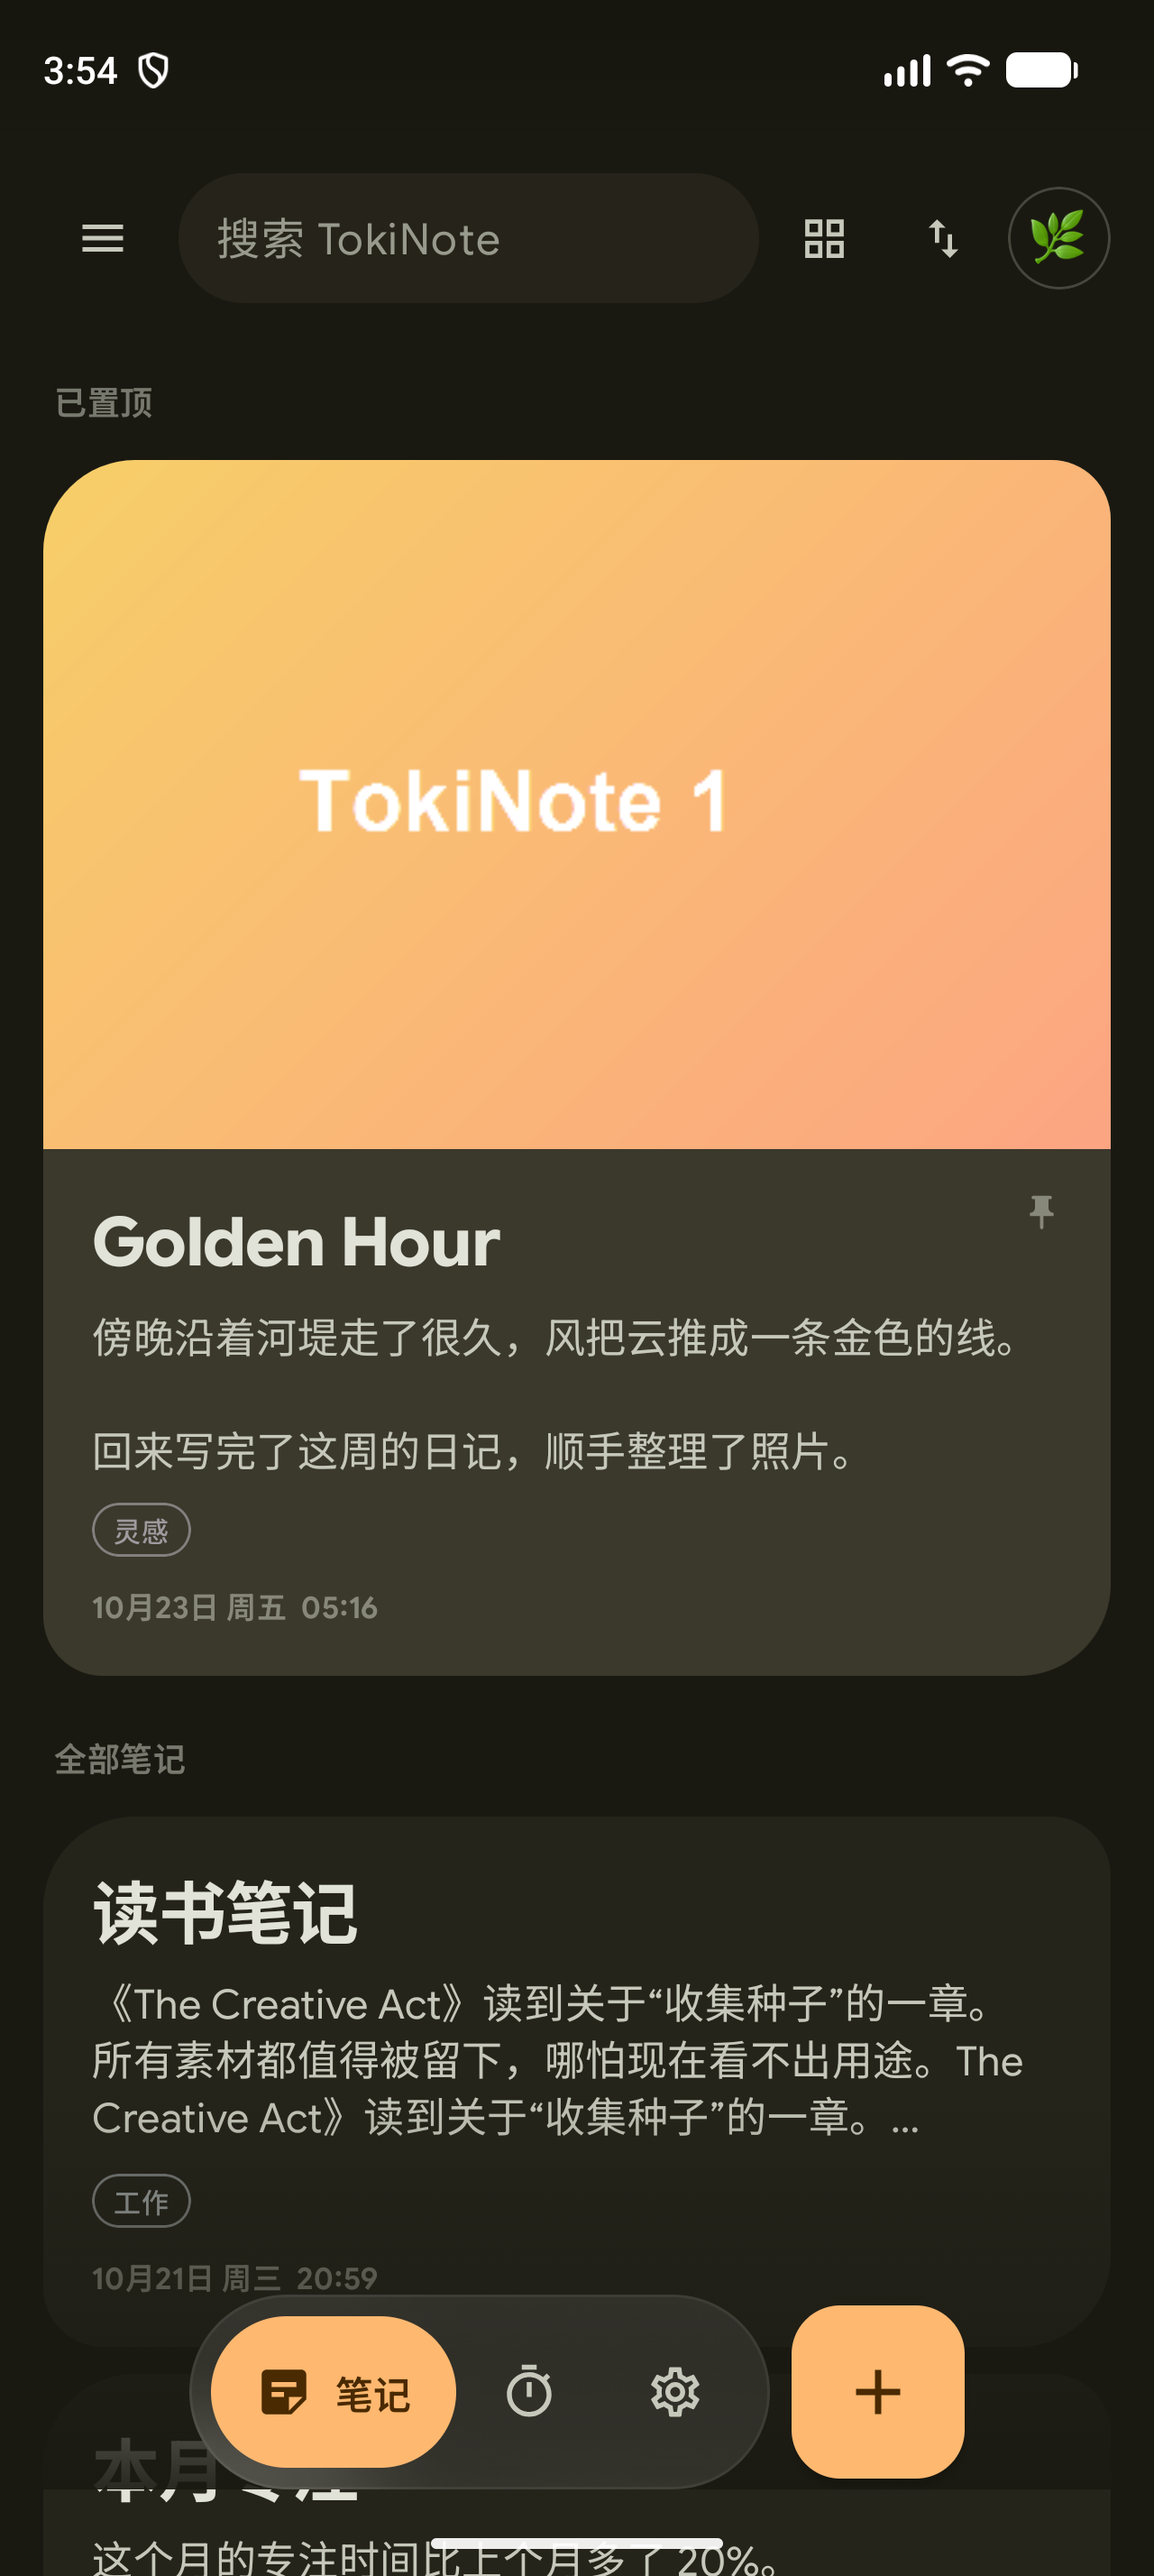
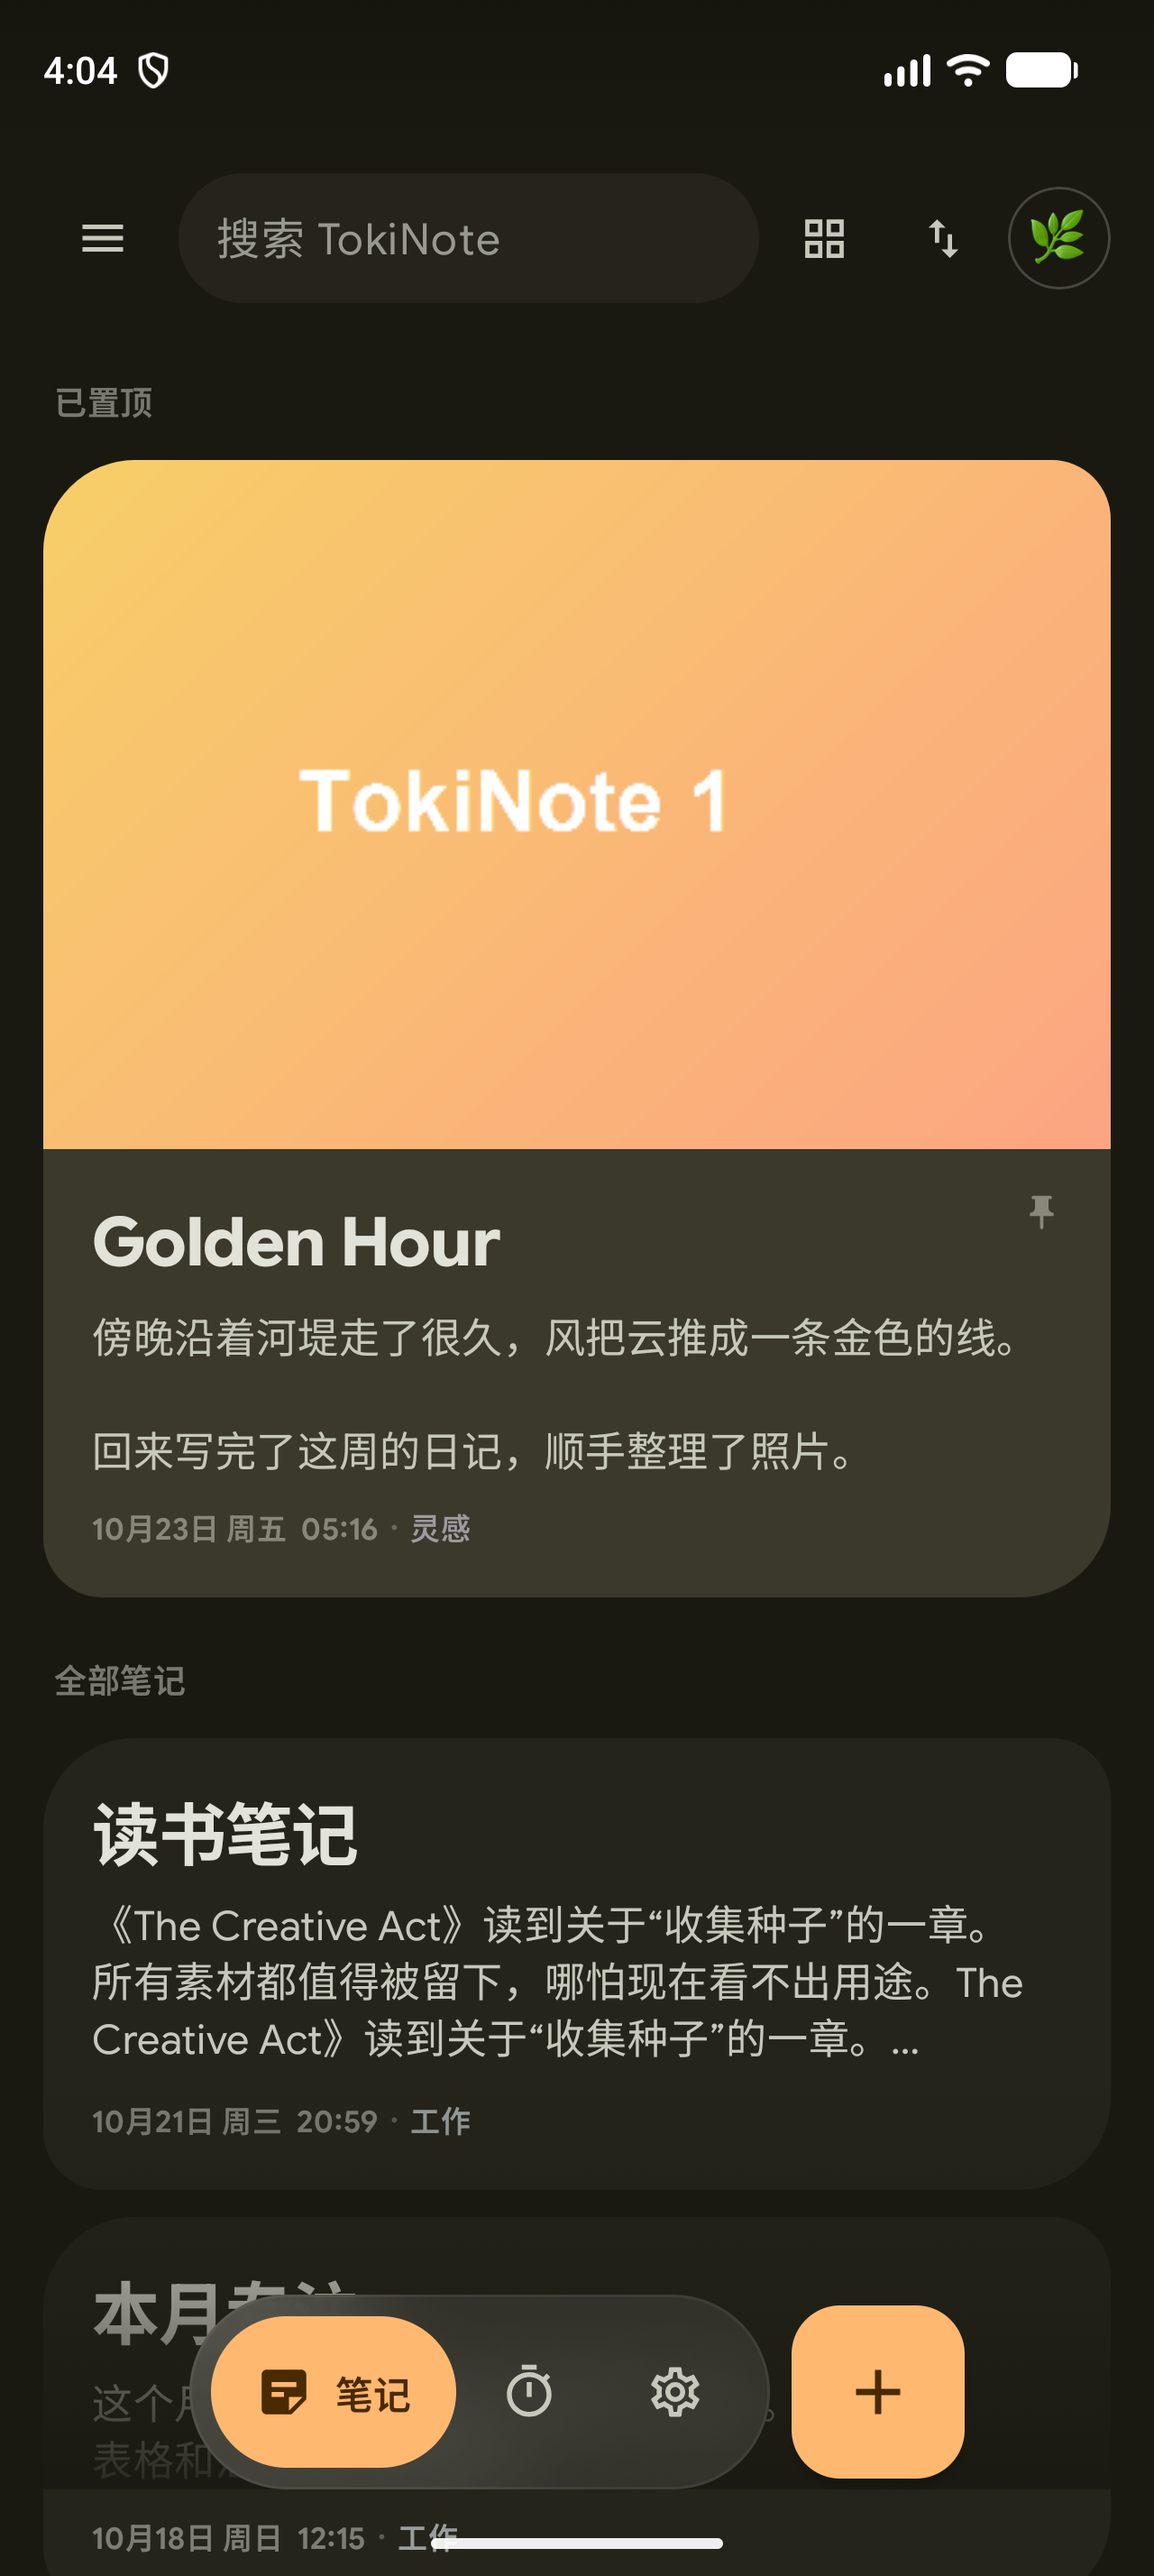
style: inline note labels after timestamp

Changed region(s): [[0.0312, 0.5609, 0.9688, 1.0]]

diff --git a/app/src/main/java/com/tokinote/app/ui/notes/NoteCard.kt b/app/src/main/java/com/tokinote/app/ui/notes/NoteCard.kt
@@ -17,8 +17,6 @@ import androidx.compose.foundation.layout.padding
 import androidx.compose.foundation.layout.size
 import androidx.compose.foundation.layout.width
 import androidx.compose.foundation.layout.widthIn
-import androidx.compose.foundation.shape.CircleShape
-import androidx.compose.foundation.shape.RoundedCornerShape
 import androidx.compose.material.icons.Icons
 import androidx.compose.material.icons.filled.PushPin
 import androidx.compose.material3.Icon
@@ -162,45 +160,45 @@ fun NoteCard(
                     )
                 }
 
-                if (noteLabels.isNotEmpty()) {
-                    Spacer(Modifier.height(9.dp))
-                    Row(horizontalArrangement = Arrangement.spacedBy(4.dp)) {
-                        noteLabels.take(3).forEach { label ->
-                            val ink = labelInk(label.colorIndex)
-                            Text(
-                                text = label.name,
-                                style = MaterialTheme.typography.labelSmall.copy(
-                                    fontSize = 10.sp,
-                                    letterSpacing = 0.2.sp,
-                                ),
-                                color = ink,
-                                maxLines = 1,
-                                overflow = TextOverflow.Ellipsis,
-                                modifier = Modifier
-                                    .widthIn(max = if (compact) 62.dp else 76.dp)
-                                    .clip(CircleShape)
-                                    .border(1.dp, ink.copy(alpha = 0.72f), CircleShape)
-                                    .padding(horizontal = 8.dp, vertical = 2.dp),
-                            )
-                        }
+                Spacer(Modifier.height(10.dp))
+                Row(
+                    verticalAlignment = Alignment.CenterVertically,
+                    horizontalArrangement = Arrangement.spacedBy(4.dp),
+                ) {
+                    Text(
+                        text = buildString {
+                            append(note.journalDate.dayLabel())
+                            if (showTime) {
+                                append("  ")
+                                append(note.updatedAt.timeLabel())
+                            }
+                        },
+                        style = MaterialTheme.typography.labelMedium.copy(
+                            fontSize = 11.sp,
+                            letterSpacing = 0.25.sp,
+                        ),
+                        color = MaterialTheme.colorScheme.onSurfaceVariant.copy(alpha = 0.55f),
+                        maxLines = 1,
+                    )
+                    noteLabels.take(if (compact) 2 else 3).forEach { label ->
+                        Text(
+                            text = "·",
+                            style = MaterialTheme.typography.labelMedium.copy(fontSize = 11.sp),
+                            color = MaterialTheme.colorScheme.onSurfaceVariant.copy(alpha = 0.35f),
+                        )
+                        Text(
+                            text = label.name,
+                            style = MaterialTheme.typography.labelMedium.copy(
+                                fontSize = 11.sp,
+                                letterSpacing = 0.2.sp,
+                            ),
+                            color = labelInk(label.colorIndex),
+                            maxLines = 1,
+                            overflow = TextOverflow.Ellipsis,
+                            modifier = Modifier.widthIn(max = if (compact) 54.dp else 70.dp),
+                        )
                     }
                 }
-
-                Spacer(Modifier.height(10.dp))
-                Text(
-                    text = buildString {
-                        append(note.journalDate.dayLabel())
-                        if (showTime) {
-                            append("  ")
-                            append(note.updatedAt.timeLabel())
-                        }
-                    },
-                    style = MaterialTheme.typography.labelMedium.copy(
-                        fontSize = 11.sp,
-                        letterSpacing = 0.25.sp,
-                    ),
-                    color = MaterialTheme.colorScheme.onSurfaceVariant.copy(alpha = 0.55f),
-                )
             }
         }
     }
